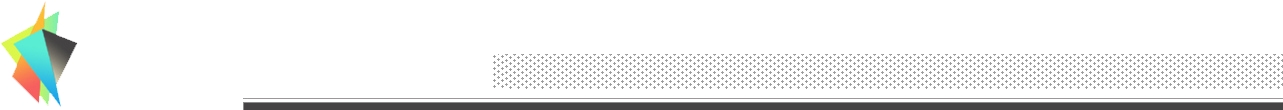
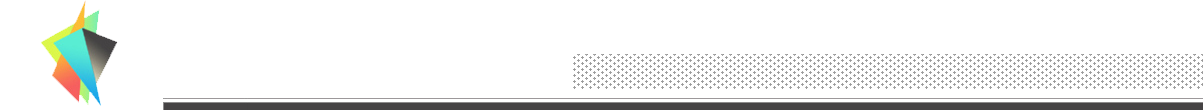
minor style edits

diff --git a/views/stylesheets/app.scss b/views/stylesheets/app.scss
@@ -160,6 +160,7 @@ body {
   font-family: Helvetica, "Helvetica Neue","Sans-serif";
   color: 000;
   font-size: 12px;
+  min-width: 1203px;
 }
 
 .generic { float: left; width: 100% }
@@ -188,17 +189,17 @@ img { border: 0px }
   height: 0px; 
 }
 
-.wrapper { float: left; width: 1203px; margin-left: 80px; }
+.wrapper { float: left; width: 1203px; margin: 0px; }
 
 .content {
-  width: 1283px;
+  width: 1203px;
   margin: 0px auto;
   padding: 0px;
   header {
     @extend .generic; 
     z-index: 600;
     position: fixed;
-    width: 1283px;
+    width: 1203px;
     height: 110px;
     margin: 0 0 17px 0;
     background-color: rgba(255, 255, 255, 0.8);
@@ -206,7 +207,7 @@ img { border: 0px }
       font-family: Georgia; 
       font-size: 72px; 
       font-style: italic; 
-      margin: 20px 0 0 86px; 
+      margin: 20px 0 0 163px; 
       text-decoration: none; 
       color: #f65f5f; 
       float: left;
@@ -216,7 +217,7 @@ img { border: 0px }
       position: absolute; 
       top: 0px; 
       left: 0px; 
-      width: 1283px; 
+      width: 1203px; 
       height: 110px; 
       z-index: 1;
       background: url('/images/header.png') no-repeat 0px 0px; 
@@ -237,7 +238,7 @@ img { border: 0px }
    .on {
       img {
        position: absolute;
-       left: 10px;
+       left: 0px;
        top: 0px;
       }
     }
@@ -705,7 +706,7 @@ img { border: 0px }
       text-align: center;
       h4 { 
         text-transform: capitalize;
-        font-family: "Archer-Medium", Georgia, Serif;
+        font-family: "Archer-Book", Georgia, Serif;
         margin: 0px;
         font-size: 20px;
         padding: 30px 150px; 
